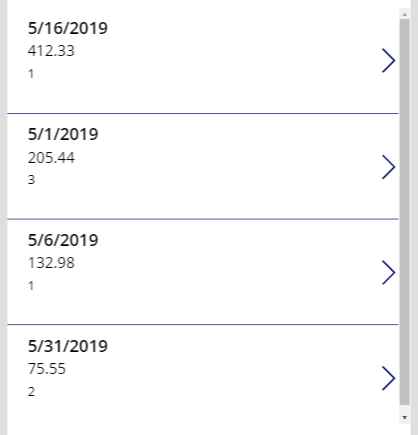
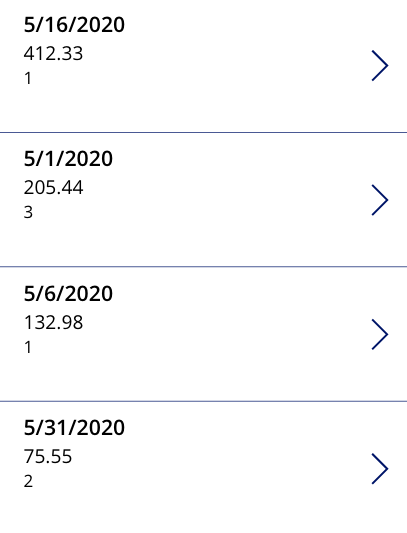
spring updates

Changed region(s): [[0.0, 0.0, 1.0, 1.0], [0.059, 0.0299, 0.3243, 0.1793], [0.059, 0.5379, 0.2948, 0.6575]]

diff --git a/learn-bizapps-pr/powerapps/work-with-relational-data-powerapps-canvas-app/includes/1-relational-data.md b/learn-bizapps-pr/powerapps/work-with-relational-data-powerapps-canvas-app/includes/1-relational-data.md
@@ -5,11 +5,11 @@ one Common Data Service entity.
 
 | ID | Destination | Date      | Trip reason    | Expense type | Expense amount  |
 | :- | :-----------|:----------|:---------------|:-------------|:----------------|
-| 1  | Seattle     | 4/10/2019 | Customer Visit | Hotel        | 205.75          |
-| 2  | Seattle     | 4/10/2019 | Customer Visit | Dinner       | 31.33           |
-| 3  | Seattle     | 4/10/2019 | Customer Visit | Flight       | 450.54          |
-| 4  | Cincinnati  | 5/2/2019  | Training       | Cab          | 23.99           |
-| 5  | Cincinnati  | 5/2/2019  | Training       | Lunch        | 12.44           |
+| 1  | Seattle     | 4/10/2020 | Customer Visit | Hotel        | 205.75          |
+| 2  | Seattle     | 4/10/2020 | Customer Visit | Dinner       | 31.33           |
+| 3  | Seattle     | 4/10/2020 | Customer Visit | Flight       | 450.54          |
+| 4  | Cincinnati  | 5/2/2020  | Training       | Cab          | 23.99           |
+| 5  | Cincinnati  | 5/2/2020  | Training       | Lunch        | 12.44           |
 
 The example above shows that there is a lot of redundant data because each row has all of the information for the entire trip. A better way to store this data would be with parent and child tables, and then create a relationship between the two entities. The following is an example of what the two entities would look like.
 
@@ -17,8 +17,8 @@ First, the parent table with only one entry per trip.
 
 | ID | Destination | Date      | Trip reason    |
 | :- | :-----------|:----------|:---------------|
-| 1  | Seattle     | 4/10/2019 | Customer Visit |
-| 2  | Cincinnati  | 5/2/2019  | Training       |
+| 1  | Seattle     | 4/10/2020 | Customer Visit |
+| 2  | Cincinnati  | 5/2/2020  | Training       |
 
 Then, the child table that has one entry per expense item with a
 reference to the parent record.

diff --git a/learn-bizapps-pr/powerapps/work-with-relational-data-powerapps-canvas-app/includes/2-work-with-relationships.md b/learn-bizapps-pr/powerapps/work-with-relational-data-powerapps-canvas-app/includes/2-work-with-relationships.md
@@ -26,10 +26,10 @@ like the following.
 
 | ID | InvoiceDate | InvoiceDescription| InvoiceAmount | CustomerID |
 | :--| :-----------| :-----------------| :-------------| :----------|
-| 1  | 5/16/2019   | Parts             | 412.33        | 1          |
-| 2  | 5/1/2019    | Service           | 205.44        | 3          |
-| 3  | 5/6/2019    | Travel            | 132.98        | 1          |
-| 4  | 5/31/2019   | Parts             | 75.55         | 2          |
+| 1  | 5/16/2020   | Parts             | 412.33        | 1          |
+| 2  | 5/1/2020    | Service           | 205.44        | 3          |
+| 3  | 5/6/2020    | Travel            | 132.98        | 1          |
+| 4  | 5/31/2020   | Parts             | 75.55         | 2          |
 
 In Power Apps use the Gallery control to display the contents of the
 Customer table. You do this by using the following steps:
